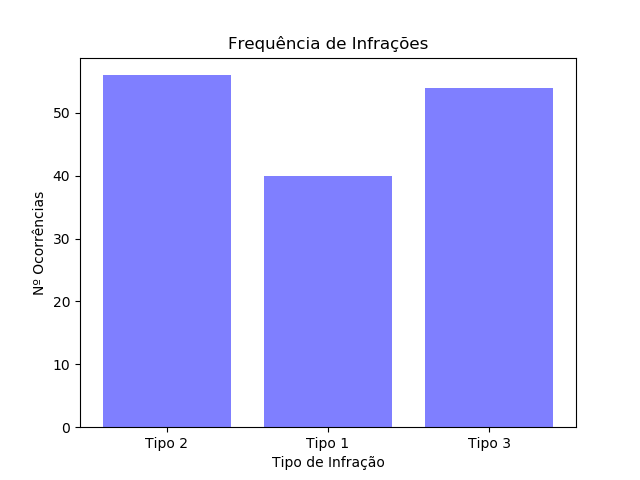
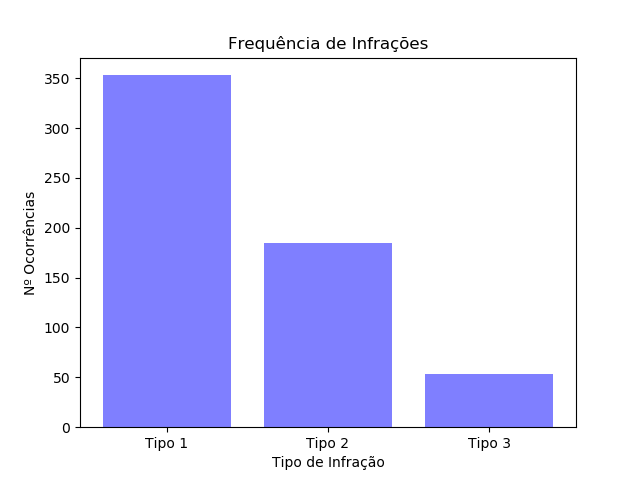
corrected the use of memory by matplotlib. Now it wont freeze after several interactions.

diff --git a/Interface.py b/Interface.py
@@ -6,7 +6,7 @@ from Application import Application
 from tkinter import messagebox
 import threading
 from collections import Counter
-import matplotlib as plt; plt.rcdefaults()
+import matplotlib as mp
 import matplotlib.pyplot as plt
 
 
@@ -25,6 +25,8 @@ class CadastroVeiculo:
         y = (h - self.this.winfo_reqheight()) / 2
 
         self.this.geometry("+%d+%d" % (x-150, y-150))
+
+        mp.use('TkAgg')
 
         self.carros_cadastrados = []
         self.leitora = ['leitora', '127.0.0.1', '20000']
@@ -500,8 +502,6 @@ class TelaPrincipal:
         self.thread_radar = threading.Thread(target=self.start_radar)
         self.thread_radar.setDaemon(True)
 
-        self.thread_grafico = threading.Thread(target=self.plot_grafico)
-        self.thread_grafico.setDaemon(True)
 
     def open_window(self):
 
@@ -573,7 +573,7 @@ class TelaPrincipal:
     def start_radar(self):
 
         self.debugg.insert(CURRENT, "Iniciando Simulação...\n")
-
+        self.fig = plt.figure()
         while 1:
 
             output = self.app.execute_radar()
@@ -598,15 +598,14 @@ class TelaPrincipal:
             labels = "Tipo 1", "Tipo 2", "tipo 3"
             counters = 0, 0, 0
 
-        plt.clf()
         plt.bar(labels, counters, align='center', alpha=0.5, color='b')
         plt.ylabel('Nº Ocorrências')
         plt.xlabel('Tipo de Infração')
         plt.title("Frequência de Infrações")
         plt.savefig('plot.png', transparent=True)
+        self.fig.clf()
 
         img = PhotoImage(file='plot.png')
-
         self.graf.image = img
         self.graf.config(image=img)
         self.graf.image = img

diff --git a/Application.py b/Application.py
@@ -36,9 +36,9 @@ class Application:
         self.db = DataBase()
         self.a9 = Alien9000()
 
-        self.prob_inf = [0.5, 0.5]
+        self.prob_inf = [0.7, 0.3]
         self.inf_all_types = [20, 49, 100]
-        self.prob_inf_type = [0.3, 0.3, 0.3]
+        self.prob_inf_type = [0.6, 0.3, 0.1]
         self.lower_bound = {
             20: 0,
             49: 20,
@@ -187,7 +187,6 @@ class Application:
         generated_time = self.gerar_time_span()
 
         # no bad behavior generated, no reading
-        print(generated_time)
         if generated_time == 0:
             return None
 
